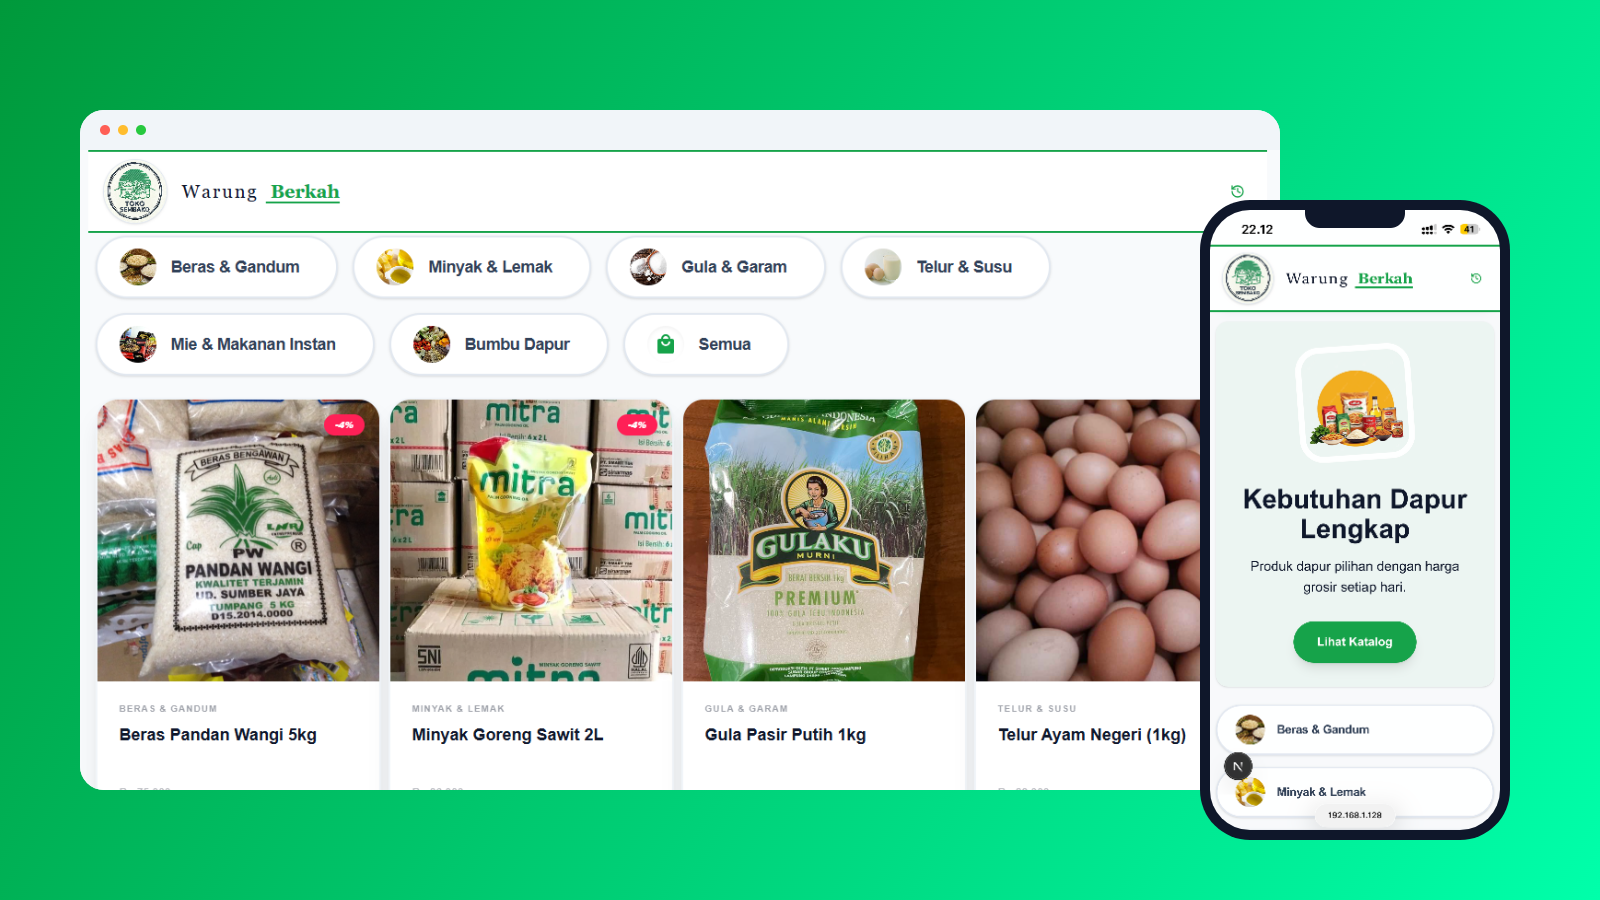
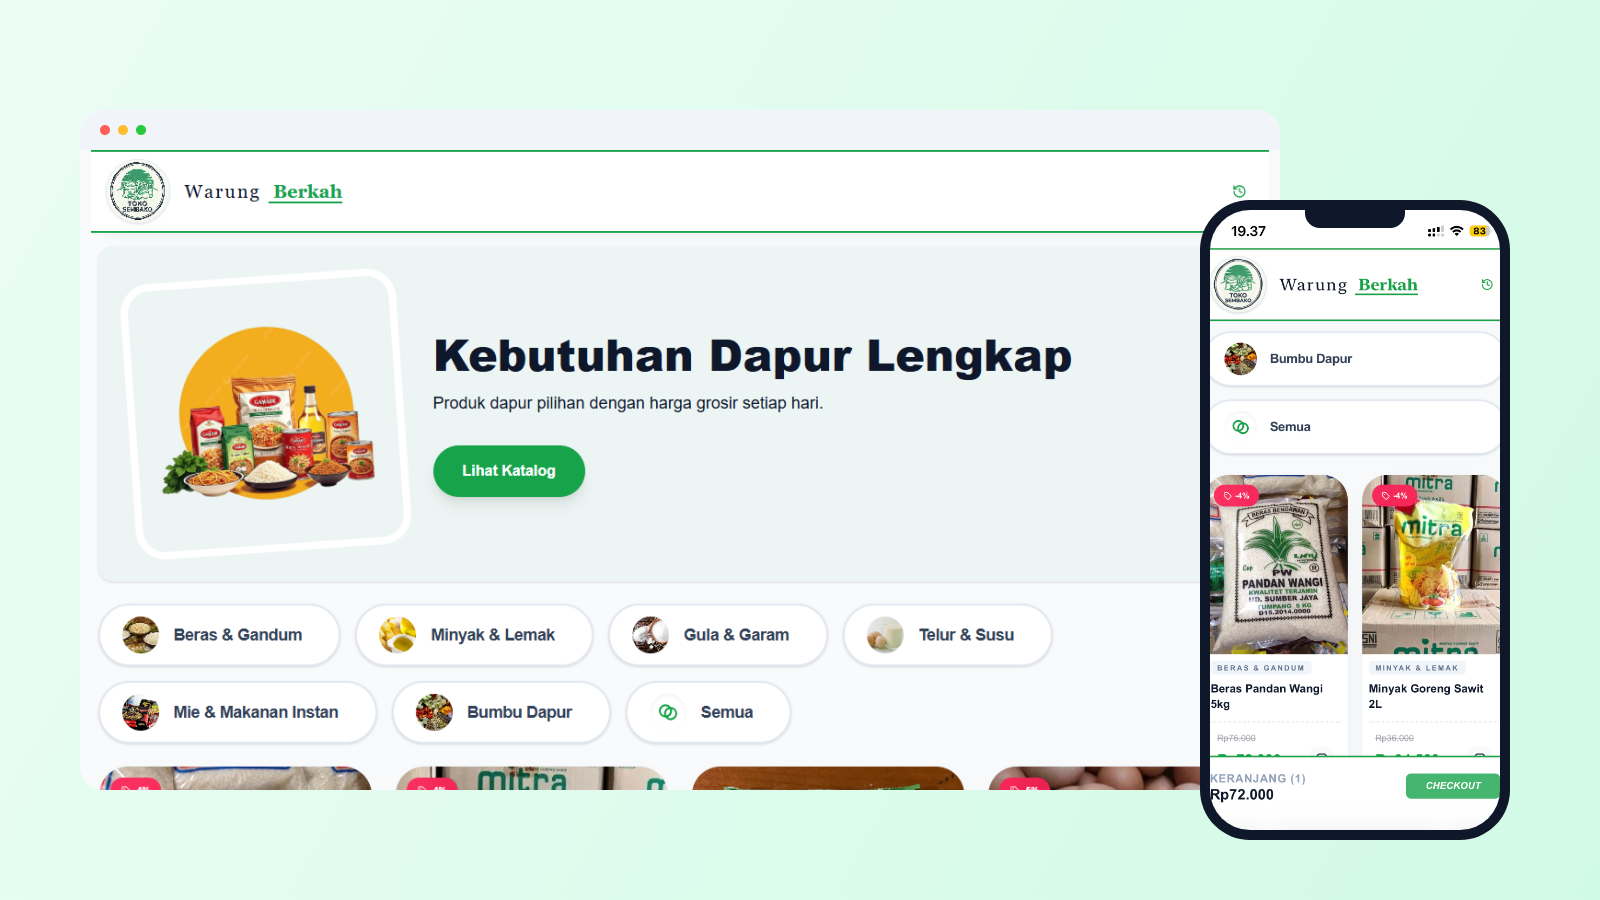
Update list tema

diff --git a/src/Components/Config/Theme/Products/Fiveteen.tsx b/src/Components/Config/Theme/Products/Fiveteen.tsx
@@ -47,7 +47,7 @@ const Fiveteen = ({ products, isDarkMode, handleCart }: Props) => {
     };
 
     return (
-        <div className={`grid grid-cols-1 sm:grid-cols-2 lg:grid-cols-4 gap-8 p-6 ${isDarkMode ? 'bg-zinc-950' : 'bg-slate-50'}`}>
+        <div className={`grid grid-cols-1 sm:grid-cols-2 lg:grid-cols-4 gap-8 p-6 `}>
             {products?.map((p, i) => {
                 const { finalPrice, label } = getPromoDetails(p);
                 return (
@@ -58,17 +58,17 @@ const Fiveteen = ({ products, isDarkMode, handleCart }: Props) => {
                     >
                         {/* Discount Badge - Orbital Style */}
                         {label && (
-                            <div className={`absolute top-2 right-2 z-10 bg-[var(--product-primary-color)] text-white text-[10px] font-black w-12 h-12 flex items-center justify-center rounded-full shadow-xl rotate-12 group-hover:rotate-0 transition-transform duration-500 border-2 ${isDarkMode ? "border-zinc-900" : "border-white"}`}>
+                            <div className={`absolute top-2 right-2 z-1 bg-[var(--product-primary-color)] text-white text-[10px] font-black w-12 h-12 flex items-center justify-center rounded-full shadow-xl rotate-12 group-hover:rotate-0 transition-transform duration-500 border-2 ${isDarkMode ? "border-zinc-900" : "border-white"}`}>
                                 {label}
                             </div>
                         )}
 
                         {/* Main Image Orbit */}
                         <div className={`relative w-full aspect-square rounded-full border-2 border-dashed ${isDarkMode ? "border-zinc-800 group-hover:border-zinc-600" : "border-slate-200 group-hover:border-[var(--product-primary-color)]"} p-4 transition-all duration-700`}>
-                            <div className={`w-full h-full rounded-full overflow-hidden border-8 ${isDarkMode ? "border-zinc-900" : 'border-white'} shadow-[0_20px_40px_rgba(0,0,0,0.1)] group-hover:shadow-[0_20px_50px_rgba(var(--product-primary-rgb),0.3)] transition-all`}>
+                            <div className={`sm:w-full sm:h-full rounded-full  overflow-hidden border-8 ${isDarkMode ? "border-zinc-900" : 'border-white'} shadow-[0_20px_40px_rgba(0,0,0,0.1)] group-hover:shadow-[0_20px_50px_rgba(var(--product-primary-rgb),0.3)] transition-all`}>
                                 <img
                                     src={p?.image}
-                                    className="w-full h-full object-cover group-hover:scale-110 transition-transform duration-700"
+                                    className="w-full h-67  sm:h-57 object-cover group-hover:scale-110 transition-transform duration-700"
                                     alt={p.name}
                                 />
                             </div>
@@ -128,7 +128,7 @@ const Fiveteen = ({ products, isDarkMode, handleCart }: Props) => {
                         {/* Details Panel */}
                         <div className={`w-full md:w-1/2 space-y-8 ${isDarkMode ? 'text-white' : 'text-zinc-900'}`}>
                             <div className="space-y-4">
-                               
+
                                 <h2 className="text-4xl md:text-5xl font-black italic tracking-tighter leading-[0.9] uppercase">{product?.name}</h2>
                                 <div className="h-1.5 w-24 bg-[var(--product-primary-color)] rounded-full" />
                             </div>
@@ -196,7 +196,7 @@ const Fiveteen = ({ products, isDarkMode, handleCart }: Props) => {
                         <div className="w-3 h-3 rounded-full bg-[var(--product-primary-color)] animate-ping absolute inset-0" />
                         <div className="w-3 h-3 rounded-full bg-[var(--product-primary-color)] relative" />
                     </div>
-                    <span className="text-[11px] font-black uppercase tracking-widest">{product?.name || 'Item'} Added to Registry</span>
+                    <span className="text-[11px] font-black uppercase tracking-widest">{product?.name || 'Item'} berhasil dipesan</span>
                     <button onClick={() => setActiveAlert(false)} className="ml-2 opacity-40 hover:opacity-100 transition-opacity"><X size={14} /></button>
                 </div>
             </AlertWrapper>

diff --git a/src/data/TemaFour.ts b/src/data/TemaFour.ts
@@ -20,10 +20,10 @@ export const TemaFour = {
 
     category: {
         business_id: 13,
-        color: "#451A03",
+        color: "#9CA3AF",
         id: 1,
         layout_categories: 10,
-        mode: "dark",
+        mode: "auto",
     },
     categories: [
         {
@@ -31,7 +31,7 @@ export const TemaFour = {
             "business_id": 13,
             "name": "Pakaian Pria",
             "icon": "mdi:tshirt-crew",
-            "color": "#9CA3AF",
+            "color": "#451A03",
             "count": 124,
             "created_at": "2026-03-15T22:03:19.000000Z",
             "updated_at": "2026-03-15T22:03:19.000000Z"
@@ -40,8 +40,8 @@ export const TemaFour = {
             "id": 2,
             "business_id": 13,
             "name": "Pakaian Wanita",
-            "icon": "mdi:dress",
-            "color": "#9CA3AF",
+            "icon": "hugeicons:dress-03",
+            "color": "#451A03",
             "count": 186,
             "created_at": "2026-03-15T22:03:19.000000Z",
             "updated_at": "2026-03-15T22:03:19.000000Z"
@@ -51,7 +51,7 @@ export const TemaFour = {
             "business_id": 13,
             "name": "Koleksi Hijab",
             "icon": "mdi:head-snowflake-outline",
-            "color": "#9CA3AF",
+            "color": "#451A03",
             "count": 52,
             "created_at": "2026-03-15T22:03:19.000000Z",
             "updated_at": "2026-03-15T22:03:19.000000Z"
@@ -60,8 +60,8 @@ export const TemaFour = {
             "id": 4,
             "business_id": 13,
             "name": "Tas & Aksesoris",
-            "icon": "mdi:handbag",
-            "color": "#9CA3AF",
+            "icon": "fluent-emoji-high-contrast:handbag",
+            "color": "#451A03",
             "count": 89,
             "created_at": "2026-03-15T22:03:19.000000Z",
             "updated_at": "2026-03-15T22:03:19.000000Z"
@@ -71,7 +71,7 @@ export const TemaFour = {
             "business_id": 13,
             "name": "Alas Kaki",
             "icon": "mdi:shoe-heel",
-            "color": "#9CA3AF",
+            "color": "#451A03",
             "count": 64,
             "created_at": "2026-03-15T22:03:19.000000Z",
             "updated_at": "2026-03-15T22:03:19.000000Z"
@@ -81,7 +81,7 @@ export const TemaFour = {
             "business_id": 13,
             "name": "Promo Musim Ini",
             "icon": "mdi:label-percent-outline",
-            "color": "#9CA3AF",
+            "color": "#451A03",
             "count": 21,
             "created_at": "2026-03-15T22:03:19.000000Z",
             "updated_at": "2026-03-15T22:03:19.000000Z"

diff --git a/src/Components/Config/Theme/Products/One.tsx b/src/Components/Config/Theme/Products/One.tsx
@@ -73,13 +73,13 @@ const One = ({ products, isDarkMode, handleCart }: Props) => {
                         {/* Image Container */}
                         <div className="relative aspect-[4/5] overflow-hidden">
                             {label && (
-                                <div className="absolute top-3 left-3 z-10 bg-rose-500/90 backdrop-blur-md text-white text-[10px] font-bold px-3 py-1.5 rounded-full shadow-lg flex items-center gap-1">
+                                <div className="absolute top-3 left-3 z-0 bg-rose-500/90 backdrop-blur-md text-white text-[10px] font-bold px-3 py-1.5 rounded-full shadow-lg flex items-center gap-1">
                                     <Tag size={10} /> {label}
                                 </div>
                             )}
 
                             {/* Hover Overlay Button */}
-                            <div className="absolute inset-0 bg-black/20 opacity-0 group-hover:opacity-100 transition-opacity duration-300 z-10 flex items-center justify-center">
+                            <div className="absolute inset-0 bg-black/20 opacity-0 group-hover:opacity-100 transition-opacity duration-300 z-0 flex items-center justify-center">
                                 <div className="bg-white/90 backdrop-blur-md p-3 rounded-full text-zinc-900 transform translate-y-4 group-hover:translate-y-0 transition-transform duration-300">
                                     <Eye size={20} />
                                 </div>
@@ -206,7 +206,7 @@ const One = ({ products, isDarkMode, handleCart }: Props) => {
                                     onClick={addCart}
                                     className="w-full group/btn relative overflow-hidden py-4 bg-[var(--product-primary-color)] text-white rounded-2xl font-black transition-all hover:scale-[1.02] active:scale-95 disabled:grayscale disabled:opacity-50"
                                 >
-                                    <span className="relative z-10 flex items-center justify-center gap-2">
+                                    <span className="relative z-0 flex items-center justify-center gap-2">
                                         <ShoppingBag size={20} /> BELI SEKARANG
                                     </span>
                                     <div className="absolute inset-0 bg-white/20 translate-y-full group-hover/btn:translate-y-0 transition-transform duration-300" />

diff --git a/src/Components/Config/Theme/Products/FourTeen.tsx b/src/Components/Config/Theme/Products/FourTeen.tsx
@@ -80,8 +80,8 @@ const Fourteen = ({ products, isDarkMode, handleCart }: Props) => {
 
                         {/* Ticket Perforation Area */}
                         <div className="relative h-8 flex items-center px-4">
-                            <div className={`absolute -left-4 w-8 h-8 rounded-full ${isDarkMode ? 'bg-black' : 'bg-slate-50'} z-10 border-r ${isDarkMode ? 'border-zinc-800' : 'border-slate-100'}`} />
-                            <div className={`absolute -right-4 w-8 h-8 rounded-full ${isDarkMode ? 'bg-black' : 'bg-slate-50'} z-10 border-l ${isDarkMode ? 'border-zinc-800' : 'border-slate-100'}`} />
+                            <div className={`absolute -left-4 w-8 h-8 rounded-full ${isDarkMode ? 'bg-black' : 'bg-slate-50'} z-0 border-r ${isDarkMode ? 'border-zinc-800' : 'border-slate-100'}`} />
+                            <div className={`absolute -right-4 w-8 h-8 rounded-full ${isDarkMode ? 'bg-black' : 'bg-slate-50'} z-0 border-l ${isDarkMode ? 'border-zinc-800' : 'border-slate-100'}`} />
                             <div className="w-full border-t-2 border-dashed border-zinc-700/30 opacity-50" />
                         </div>
 

diff --git a/src/data/TemaThree.ts b/src/data/TemaThree.ts
@@ -34,7 +34,7 @@ export const TemaThree = {
         color: "#451A03",
         id: 1,
         layout_categories: 1,
-        mode: "dark",
+        mode: "light",
     },
     categories: [
         {
